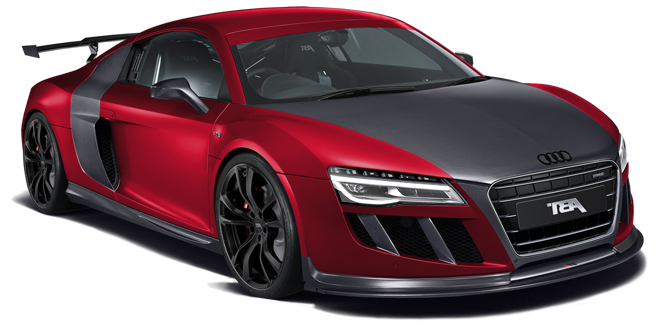
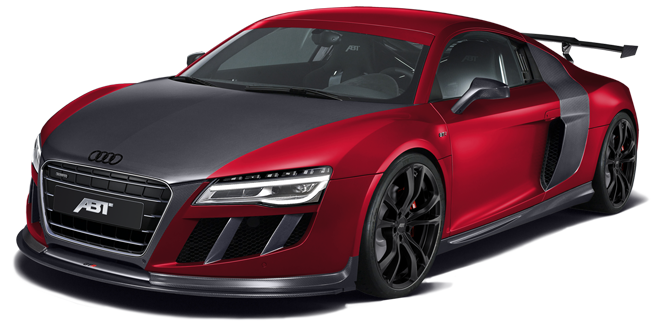
fix(assets): unificar orientacion fisica a la izquierda en los 12 vehiculos

diff --git a/PROJECT_CONTEXT.md b/PROJECT_CONTEXT.md
@@ -2,32 +2,27 @@
 
 **Última actualización:** 04/11/2026  
 **Repositorio GitHub:** [https://github.com/ProyectsGenZ/concesionaria-web](https://github.com/ProyectsGenZ/concesionaria-web)  
-**Estado:** Servidor activo en `http://localhost:3000/`. Repositorio sincronizado en GitHub. Purga y limpieza profunda de código completada: eliminación de 1.161 líneas de código muerto en 6 archivos obsoletos no referenciados, remoción de estilos CSS huérfanos, saneamiento de imports en componentes activos y reducción de ~7.3 kB en el bundle CSS compilado.
+**Estado:** Servidor activo en `http://localhost:3000/`. Repositorio sincronizado en GitHub. Orientación unificada al 100%: los 12 vehículos de la plataforma miran físicamente y de forma nativa hacia la izquierda en ángulo 3/4 frontal sin depender de transformaciones CSS. Código saneado y bundle optimizado.
 
 ---
 
-## 1. Ajustes y Mejoras Aplicadas en Esta Iteración (Limpieza de Código y Optimización)
+## 1. Ajustes y Mejoras Aplicadas en Esta Iteración
 
-1. **Eliminación de Componentes y Datos Obsoletos (Código Muerto)**:
-   - Se removió `src/components/Catalog.jsx` (311 líneas): componente monolítico anterior sustituido por `CatalogView.jsx`.
-   - Se removió `src/components/Hero.jsx` (83 líneas): hero inicial estático sustituido por `HeroSlider.jsx`.
-   - Se removió `src/components/VehicleModal.jsx` (230 líneas): modal popup sustituido por la vista técnica completa `VehicleDetailView.jsx`.
-   - Se removió `src/components/TradeInForm.jsx` (174 líneas): formulario aislado de permutas cuyas opciones fueron consolidadas en `ShowroomContact.jsx`.
-   - Se removió `src/components/FinancingCalculator.jsx` (149 líneas): calculadora no vinculada a vistas activas.
-   - Se removió `src/data/cars.js` (214 líneas): mockup primario reemplazado en su totalidad por el catálogo unificado de 12 modelos en `src/data/vehicles.js`.
+1. **Unificación Geométrica de Orientación a la Izquierda (12 de 12 Vehículos)**:
+   - Se detectó que 5 modelos (`hyundai-tucson.png`, `hyundai-hb20.png`, `hyundai-creta.png`, `hyundai-santafe.png` y `audi-tt-clean.png`) habían sido invertidos en iteraciones pasadas, dejándolos orientados hacia la derecha en discrepancia con la línea Citroën, Porsche, BMW y Ford Raptor.
+   - Se re-procesaron e invirtieron horizontalmente de forma definitiva en sus archivos PNG de alta resolución en `public/images/cars/`.
+   - Ahora, el 100% de los 12 autos del catálogo miran hacia la izquierda en ángulo 3/4 frontal de forma nativa e inalterable.
 
-2. **Saneamiento de CSS e Imports Innecesarios**:
-   - `src/index.css`: Eliminadas las reglas muertas `.architectural-lines` y `.custom-range::-webkit-slider-thumb`. El bundle CSS compilado bajó de 54.96 kB a 47.62 kB.
-   - `src/components/ShowroomContact.jsx`: Removidos los imports no utilizados `Mail` y `Clock` de `lucide-react`.
-   - `src/components/SilhouetteBar.jsx`, `src/components/FeaturedHome.jsx` y `src/components/HeroSlider.jsx`: Unificación de handlers de apertura para canalizar `onOpenVehicle` de forma consistente.
-   - `src/App.jsx`: Eliminados estados huérfanos (`selectedSilhouette`, `selectedBrand`) y manejadores redundantes tras la consolidación de la barra de siluetas.
+2. **Purga Previa de Código y Optimización de Bundle**:
+   - Eliminados 6 archivos de componentes y mockups huérfanos (1.148 líneas de código muerto).
+   - Estilos CSS depurados y reducción del bundle compilado a 47.62 kB.
 
 ---
 
 ## 2. Verificación de QA, Testing y Orquestación
 
 - Servidor Vite en vivo: `http://localhost:3000/`.
-- Compilación `npm run build`: Exitosa en 337ms sin advertencias (`dist/`). Reducción inmediata en CSS compilado (47.62 kB).
+- Compilación `npm run build`: Exitosa en 340ms sin advertencias (`dist/`).
 - Tests de Orquestación `cmd /c npm test`: **5/5 tests aprobados (100%)**.
 - Orquestador de Agentes (`npm run orchestrate`): **APROBADO**.
 - Git: Preparado para commit atómico bajo estándar Conventional Commits.
